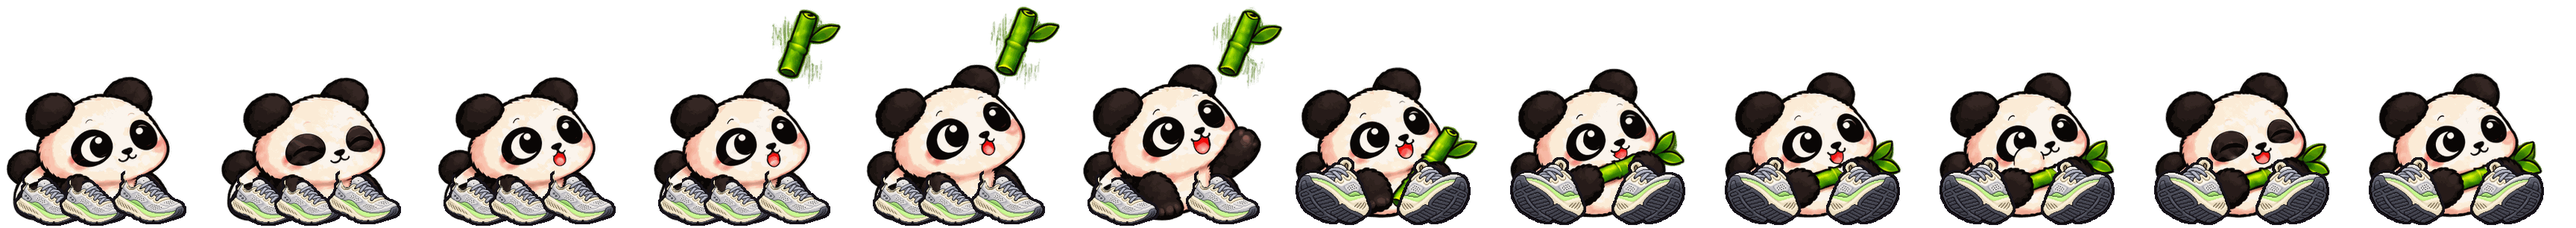
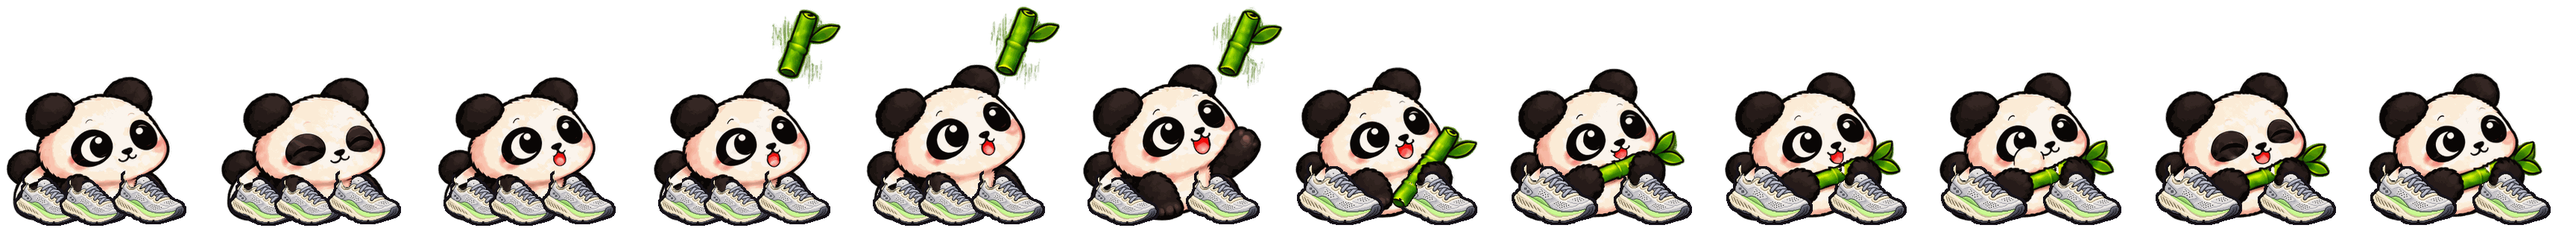
Point the seated cub's shoes right, like the rest of it
Frames 7-12 wore the seated_sole view, which read wrong. The cub faces
right throughout, so both hind feet now wear the same three-quarter view,
toes to the right, with the leg into the collar like every other shoe.
The bamboo it holds is kept in front of the shoes rather than drawn into
a collar.

Claude-Session: https://claude.ai/code/session_01EbJ4zetArtWa7tnkmUKzdS

Changed region(s): [[0.5, 0.7059, 1.0, 1.0]]

diff --git a/art/equipment/equip.py b/art/equipment/equip.py
@@ -23,6 +23,7 @@ where it meets the rim.
 import json, os, sys
 import numpy as np
 from PIL import Image, ImageDraw, ImageFilter
+from scipy import ndimage
 
 HERE = os.path.dirname(os.path.abspath(__file__))
 ATLAS = os.path.join(HERE, "shoe-runner.png")
@@ -44,6 +45,23 @@ FEET = ["hind_near", "hind_far", "front_near", "front_far"]
 OUTLINE_RGB = (24, 20, 28)
 # how far down the rim the leg's shadow falls, and how dark
 SHADOW_PX, SHADOW = 3, 0.62
+
+
+def bamboo(orig):
+    """The cub's bamboo: green, and the near-black line round it. It is held
+    in front of the body, so it stays in front of the shoes too."""
+    rgb = orig[..., :3].astype(int)
+    green = (rgb[..., 1] > rgb[..., 0] + 25) & (rgb[..., 1] > rgb[..., 2] + 25) & (orig[..., 3] > 0)
+    near = np.asarray(Image.fromarray(green.astype(np.uint8) * 255).filter(ImageFilter.MaxFilter(3))) > 0
+    m = green | (near & (rgb.sum(-1) < 120) & (orig[..., 3] > 0))
+    # only the bamboo itself, not stray dark specks of fur beside it
+    lab, n = ndimage.label(m)
+    size = ndimage.sum(m, lab, range(1, n + 1))
+    return np.isin(lab, 1 + np.nonzero(size >= 40)[0])
+
+
+# per pet: what in its sheet is held in front of the feet
+PROPS = {"bamboo_cub": bamboo}
 
 atlas = Image.open(ATLAS).convert("RGBA")
 tpl = json.load(open(TEMPLATE))
@@ -93,10 +111,16 @@ def shoe(view, width, height, outline, flip=False):
     return img, [round(sx, 4), round(sy, 4)], (ax, ay), opening
 
 
-def wear(frame, orig, img, left, top, opening, leg):
+def wear(frame, orig, img, left, top, opening, leg, props=None):
     """Draw the shoe, then the leg back over its opening, with a shadow on the
-    rim below. frame is modified in place; orig is the untouched pet frame."""
+    rim below, then anything the pet holds in front of its feet. frame is
+    modified in place; orig is the untouched pet frame."""
     frame.alpha_composite(img, (left, top))
+    if props is not None:
+        p = props(orig)
+        out = np.asarray(frame).copy()
+        out[p] = orig[p]
+        frame.paste(Image.fromarray(out))
     if opening is None or leg is None:
         return
     fh, fw = orig.shape[:2]
@@ -109,6 +133,8 @@ def wear(frame, orig, img, left, top, opening, leg):
     band = np.zeros(fw, bool)
     band[max(0, leg[0]):min(fw, leg[1])] = True
     m &= band[None, :] & (orig[..., 3] > 0)
+    if props is not None:
+        m &= ~props(orig)
     if not m.any():
         return
     out = np.asarray(frame).copy()
@@ -142,7 +168,7 @@ def build(pet, placements):
             flip = s.get("flip", False)
             img, scale, (ax, ay), opening = shoe(s["view"], s["width"], s["height"], outline, flip)
             left, top = s["left"] - outline, s["bottom"] + outline - img.height
-            wear(frame, orig, img, left, top, opening, s.get("leg"))
+            wear(frame, orig, img, left, top, opening, s.get("leg"), PROPS.get(pet))
             entries.append(dict(foot=s["foot"], visible=True, view=s["view"],
                                 view_name=VIEWS[s["view"]]["name"],
                                 anchor=[round(left + ax), round(top + ay)],

diff --git a/art/equipment/fit.py b/art/equipment/fit.py
@@ -11,9 +11,8 @@ and equip.py then draws the leg back over the collar opening.
 
 Which feet are shod, and how the Cinderling's and Sparky's paws move between
 frames, come from mockup-placements.json (where the hand-made mockups put each
-shoe). The Bamboo Cub's v3 sheet is pinned - its paws do not move - and its
-seated frames turn the hind soles to the viewer, so those wear the
-seated_sole view, mirrored for the left foot.
+shoe). The Bamboo Cub's v3 sheet is pinned - its paws do not move - and it
+faces right throughout, so every shoe on it points right.
 """
 import sys, json, itertools, os
 import numpy as np
@@ -44,6 +43,7 @@ ALL, R = range(12), range
 # the lying cub's legs come down from its body at the back of each paw, so the
 # collar sits behind the paw's middle
 LYING = (-30, -26, -22, -18, -14, -10)
+SITTING = tuple(range(-24, 25, 4))
 GROUPS = {
  'cinderling': [
    # the near hind shoe sits behind the near front one: anchor it behind the
@@ -65,11 +65,12 @@ GROUPS = {
    F('hind_near', (24, 258, 98, 297), [(i, 'hind_near') for i in R(6)], view=TQ, moves=False, dx=LYING),
    F('front_near', (84, 256, 150, 299), [(i, 'front_near') for i in R(5)], view=TQ, moves=False, dx=LYING),
    F('front_far', (152, 258, 228, 297), [(i, 'front_far') for i in R(6)], view=TQ, moves=False, dx=LYING),
-   # frames 7-12 sitting up: hind soles to the viewer, the leg behind the shoe
-   F('hind_near_sit', (22, 240, 100, 300), [(i, 'hind_near') for i in R(6, 12)], view=SOLE, flip=True,
-     ref=6, moves=False, dx=(-6, -3, 0, 3, 6)),
-   F('hind_far_sit', (158, 240, 234, 300), [(i, 'hind_far') for i in R(6, 12)], view=SOLE,
-     ref=6, moves=False, dx=(-6, -3, 0, 3, 6))],
+   # frames 7-12 sitting up: the cub still faces right, so both hind feet
+   # wear the same three-quarter view, toes to the right
+   F('hind_near_sit', (22, 240, 100, 300), [(i, 'hind_near') for i in R(6, 12)], view=TQ,
+     ref=6, moves=False, dx=SITTING),
+   F('hind_far_sit', (158, 240, 234, 300), [(i, 'hind_far') for i in R(6, 12)], view=TQ,
+     ref=6, moves=False, dx=SITTING)],
 }
 ASPECT_OF = lambda pet, view: ASPECT.get((pet, view), equip.VIEWS[view]['img'].height / equip.VIEWS[view]['img'].width)
 
@@ -99,6 +100,8 @@ for pet, groups in GROUPS.items():
         pw, view = x1 - x0, g['view']
         v = equip.VIEWS[view]
         afrac = v['anchor'][0] / v['img'].width
+        if g['flip']:   # mirrored, the anchor is as far from the right edge
+            afrac = 1 - afrac
         if g['moves']:
             ws = sorted(mock(pet, i, n)['width'] for i, n in g['frames'])
             floor = round(ws[len(ws) // 2] * GROW)

diff --git a/art/equipment/README.md b/art/equipment/README.md
@@ -11,15 +11,16 @@ box the shoe fills, and where the leg goes in. `fit.py` writes it:
 - each shoe is the smallest that hides 95% or more of its paw in every frame
   (and at least 15% bigger than the mockup's), one size per foot for the loop
 - views follow the feet: side view for the dragon's; three-quarter for the
-  squirrel's and the lying cub's paws, which point at the viewer; the seated
-  cub's soles face the viewer, so `seated_sole`, mirrored for the left foot
+  squirrel's and the cub's, which point at the viewer - every shoe toe to
+  the right, as each pet faces right, the cub sitting up included
 - a side or three-quarter shoe is placed by its ankle anchor under the leg
 - which feet are shod, and how the dragon's and squirrel's paws move, come
   from `mockup-placements.json` (the hand-made mockups); the v3 cub is pinned
 
 `equip.py` then draws the leg back over each view's `leg_opening` (in
 `shoe-runner.json`), so the leg goes down into the collar with a little
-shadow on the rim, instead of the shoe sitting on top of the paw. A new shoe
+shadow on the rim, instead of the shoe sitting on top of the paw. Anything a
+pet holds in front of its feet (the cub's bamboo) stays in front of the shoes. A new shoe
 needs its own `leg_opening` per view, or it will look stuck on.
 
 `equip.py` renders those placements and writes, to `preview/`:
